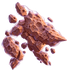
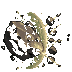
AT-ST walker and cloaked asteroid: house-style sheets (regenerated)

diff --git a/docs/ART_CREDITS.md b/docs/ART_CREDITS.md
@@ -164,7 +164,8 @@ decontamination droid, and the Y-wing (Codex redesigned the craft).
 
 The old-style vehicles, ships and objectives (boarding shuttles, minelayer,
 mole miner, Star Destroyer, TIE bomber and interceptor, docked warship,
-Katana dreadnaught, cloning cylinder, shield generator, shipyard platform)
+Katana dreadnaught, cloning cylinder, shield generator, shipyard platform,
+AT-ST walker, cloaked asteroid)
 got full Codex sheets in the house style (`gen_codex_owner_sheets.py`, the
 speeder sheet as template, the old sprite as the design reference); their
 shots and effects are painted, so no flash is blitted over them.
